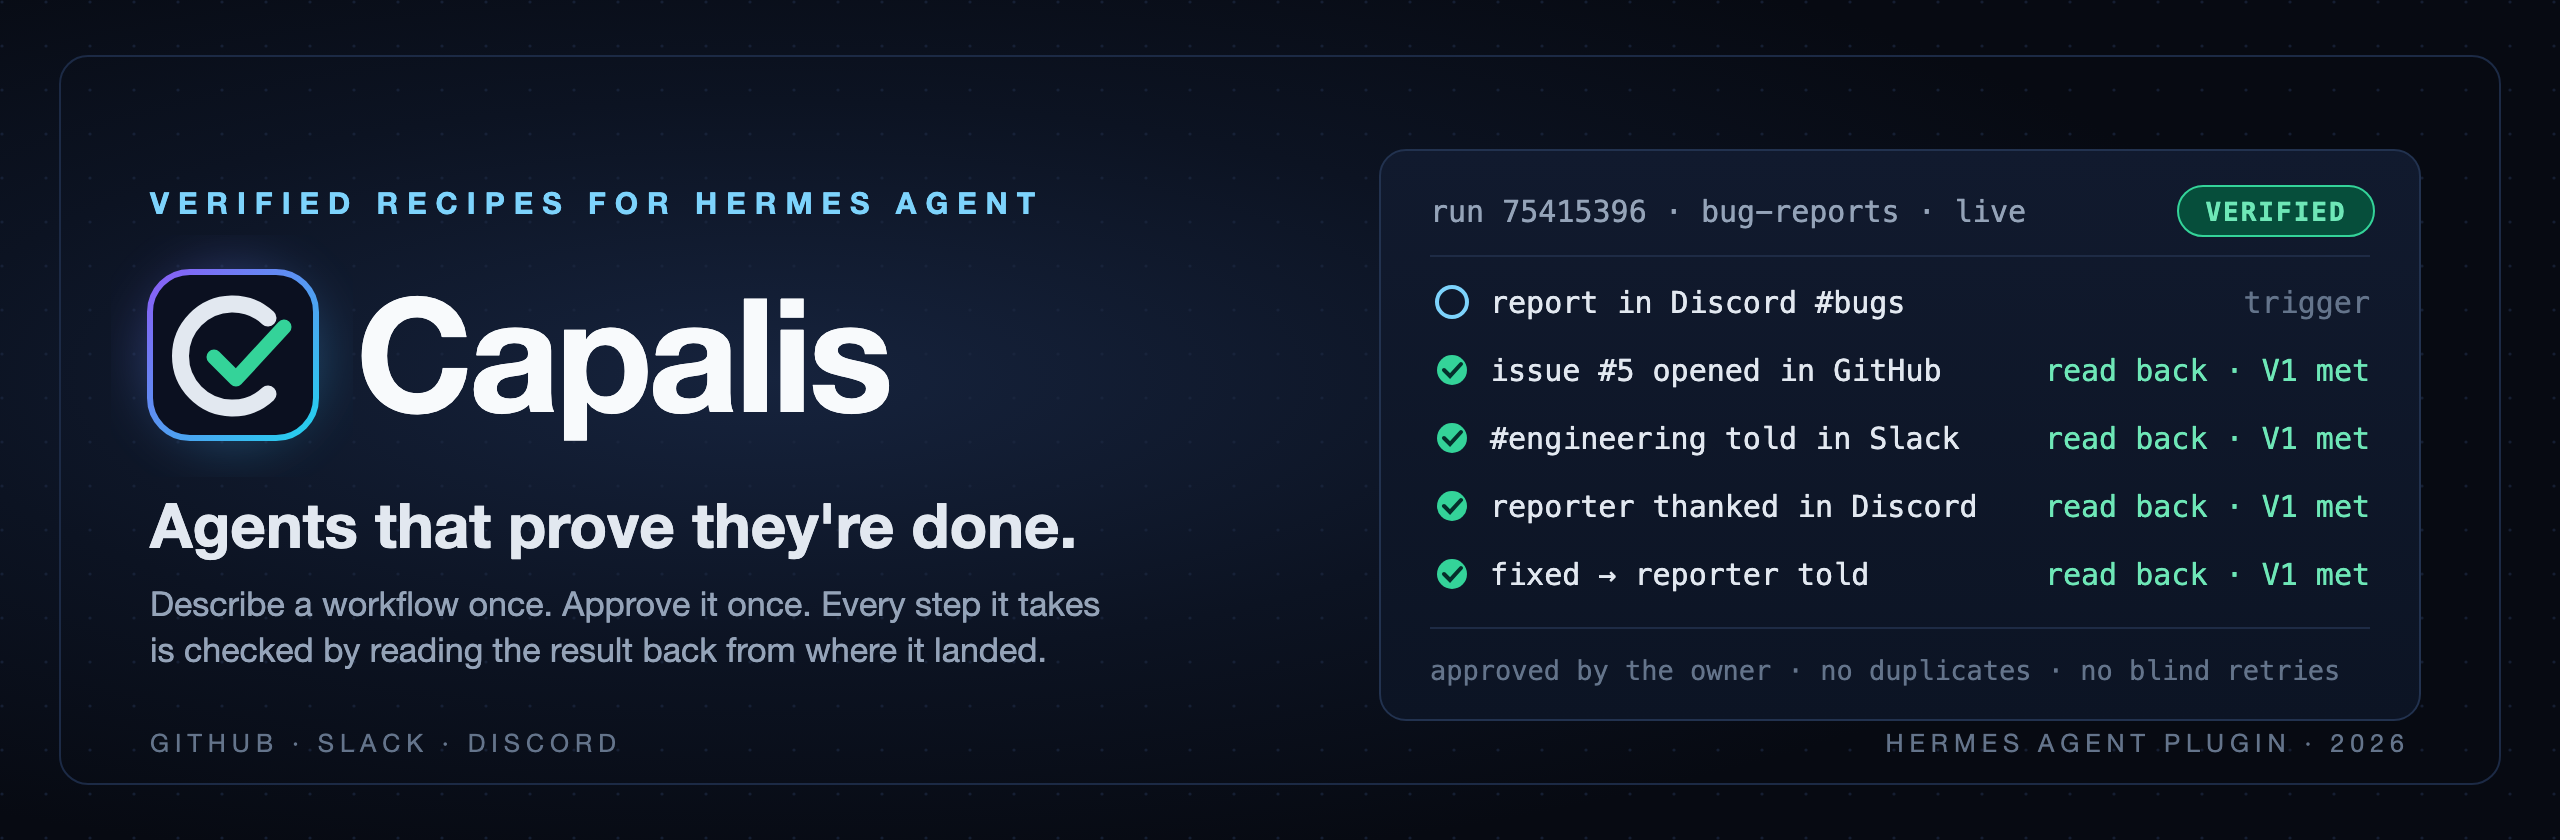
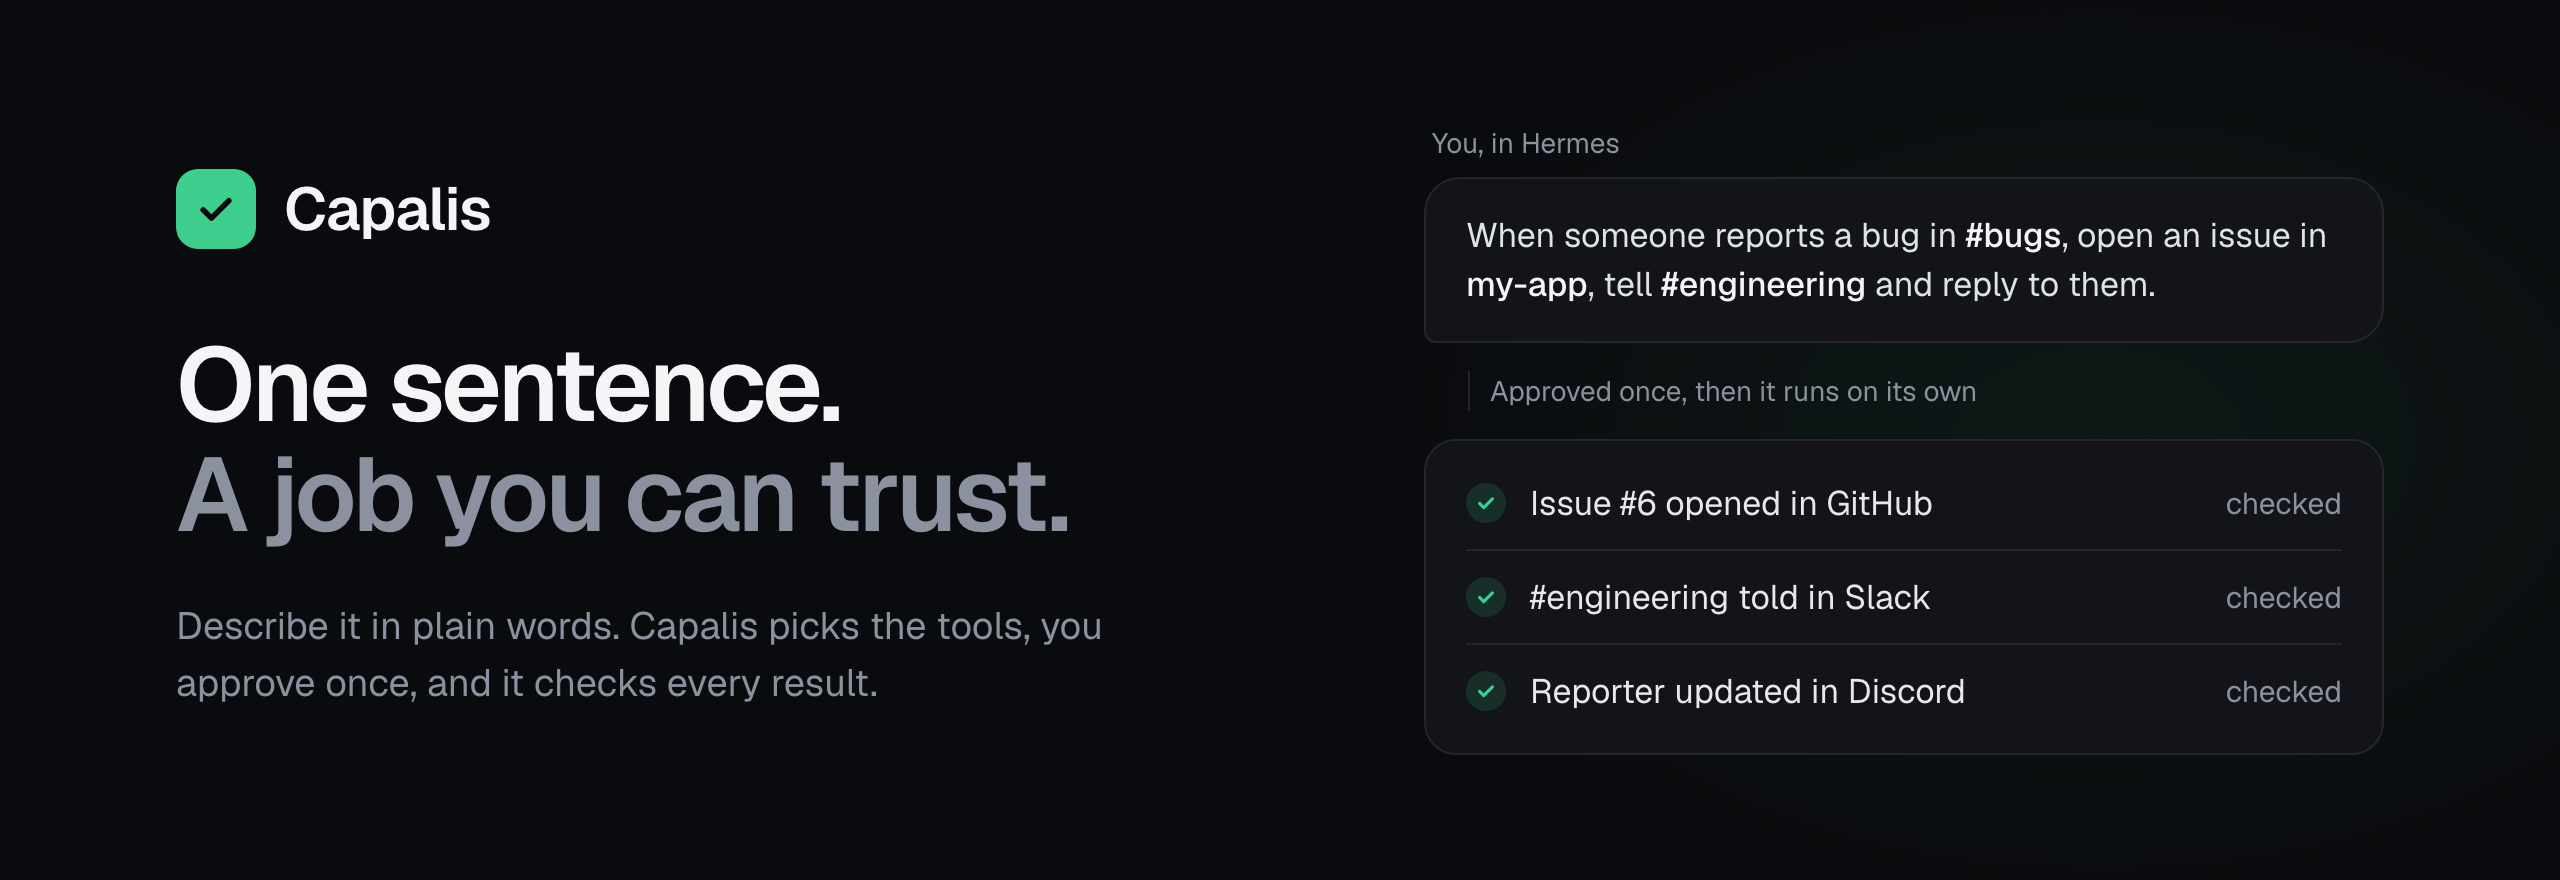
docs: refresh README copy, add “What makes it different” section, and replace cover assets

diff --git a/docs/assets/cover.html b/docs/assets/cover.html
@@ -1,0 +1,83 @@
+<!doctype html>
+<html>
+<head>
+<meta charset="utf-8">
+<link rel="preconnect" href="https://fonts.googleapis.com">
+<link href="https://fonts.googleapis.com/css2?family=Geist:wght@400;500;600;700&display=block" rel="stylesheet">
+<style>
+  :root {
+    --bg: #0a0b0e;
+    --surface: #121419;
+    --line: #23262e;
+    --text: #f4f5f7;
+    --muted: #8b919e;
+    --accent: #3ecf8e;
+  }
+  * { box-sizing: border-box; margin: 0; padding: 0; }
+  html, body { width: 1280px; height: 440px; }
+  body {
+    font-family: "Geist", -apple-system, sans-serif;
+    background:
+      radial-gradient(520px 340px at 82% 50%, rgba(62, 207, 142, 0.07), transparent 70%),
+      var(--bg);
+    color: var(--text);
+    display: flex;
+    align-items: center;
+    padding: 0 88px;
+    gap: 72px;
+    -webkit-font-smoothing: antialiased;
+  }
+  .left { flex: 1; }
+  .brand { display: flex; align-items: center; gap: 14px; margin-bottom: 40px; }
+  .mark {
+    width: 40px; height: 40px; border-radius: 11px; background: var(--accent);
+    display: grid; place-items: center;
+  }
+  .wordmark { font-size: 30px; font-weight: 600; letter-spacing: -0.02em; }
+  h1 { font-size: 52px; line-height: 1.06; font-weight: 600; letter-spacing: -0.035em; }
+  h1 span { color: var(--muted); }
+  p.sub { margin-top: 24px; font-size: 19px; line-height: 1.5; color: var(--muted); max-width: 500px; }
+
+  .right { width: 480px; display: flex; flex-direction: column; gap: 14px; }
+  .who { font-size: 14px; color: var(--muted); margin: 0 0 8px 4px; }
+  .bubble {
+    background: var(--surface); border: 1px solid var(--line); border-radius: 18px 18px 18px 6px;
+    padding: 16px 20px; font-size: 17px; line-height: 1.45; color: #dfe2e8;
+  }
+  .bubble b { color: var(--text); font-weight: 500; }
+  .link { display: flex; align-items: center; gap: 10px; padding-left: 22px; color: var(--muted); font-size: 14px; }
+  .link i { width: 1px; height: 20px; background: var(--line); }
+  .card { background: var(--surface); border: 1px solid var(--line); border-radius: 16px; padding: 8px 20px; }
+  .row { display: flex; align-items: center; gap: 12px; padding: 12px 0; font-size: 17px; }
+  .row + .row { border-top: 1px solid var(--line); }
+  .row .t { flex: 1; color: #e6e8ec; }
+  .row .k { color: var(--muted); font-size: 15px; }
+  .ok { width: 20px; height: 20px; border-radius: 50%; background: rgba(62, 207, 142, 0.14); display: grid; place-items: center; }
+</style>
+</head>
+<body>
+  <div class="left">
+    <div class="brand">
+      <div class="mark">
+        <svg width="22" height="22" viewBox="0 0 24 24" fill="none"><path d="M5 12.5l4.5 4.5L19 7.5" stroke="#0a0b0e" stroke-width="3" stroke-linecap="round" stroke-linejoin="round"/></svg>
+      </div>
+      <div class="wordmark">Capalis</div>
+    </div>
+    <h1>One sentence.<br><span>A job you can trust.</span></h1>
+    <p class="sub">Describe it in plain words. Capalis picks the tools, you approve once, and it checks every result.</p>
+  </div>
+
+  <div class="right">
+    <div>
+      <div class="who">You, in Hermes</div>
+      <div class="bubble">When someone reports a bug in <b>#bugs</b>, open an issue in <b>my-app</b>, tell <b>#engineering</b> and reply to them.</div>
+    </div>
+    <div class="link"><i></i>Approved once, then it runs on its own</div>
+    <div class="card">
+      <div class="row"><span class="ok"><svg width="11" height="11" viewBox="0 0 24 24" fill="none"><path d="M5 12.5l4.5 4.5L19 7.5" stroke="#3ecf8e" stroke-width="3.4" stroke-linecap="round" stroke-linejoin="round"/></svg></span><span class="t">Issue #6 opened in GitHub</span><span class="k">checked</span></div>
+      <div class="row"><span class="ok"><svg width="11" height="11" viewBox="0 0 24 24" fill="none"><path d="M5 12.5l4.5 4.5L19 7.5" stroke="#3ecf8e" stroke-width="3.4" stroke-linecap="round" stroke-linejoin="round"/></svg></span><span class="t">#engineering told in Slack</span><span class="k">checked</span></div>
+      <div class="row"><span class="ok"><svg width="11" height="11" viewBox="0 0 24 24" fill="none"><path d="M5 12.5l4.5 4.5L19 7.5" stroke="#3ecf8e" stroke-width="3.4" stroke-linecap="round" stroke-linejoin="round"/></svg></span><span class="t">Reporter updated in Discord</span><span class="k">checked</span></div>
+    </div>
+  </div>
+</body>
+</html>

diff --git a/README.md b/README.md
@@ -1,10 +1,10 @@
 <div align="center">
 
-<img src="docs/assets/cover.png" alt="Capalis: agents that prove they're done" width="100%" />
+<img src="docs/assets/cover.png" alt="Capalis: one sentence becomes a job you can trust. A request in Hermes becomes an issue in GitHub, a Slack message and a reply in Discord, each one checked." width="100%" />
 
-### Teach your AI agent a job once. It does it every time, and proves every step.
+### Describe a job once. Capalis sets it up, runs it, and checks it really happened.
 
-Capalis is a plugin for [Hermes Agent](https://github.com/NousResearch/hermes-agent). It turns one sentence into an approved workflow that runs on its own. It checks each thing it does by reading the result back, and it stops itself the moment anything changes.
+Capalis is a plugin for [Hermes Agent](https://github.com/NousResearch/hermes-agent). Say what you want in plain words. It picks the right tools, you approve once, and the job runs on its own. Every result is checked where it landed, and the job stops itself if anything it depends on changes.
 
 **[Quick start](#quick-start)** &nbsp;·&nbsp; **[See it work](#see-it-work)** &nbsp;·&nbsp; **[For judges](#for-judges)** &nbsp;·&nbsp; **[Owner's guide](docs/USER_GUIDE.md)**
 
@@ -20,6 +20,7 @@ Capalis is a plugin for [Hermes Agent](https://github.com/NousResearch/hermes-ag
 
 - [The problem, in 20 seconds](#the-problem-in-20-seconds)
 - [What changes with Capalis](#what-changes-with-capalis)
+- [What makes it different](#what-makes-it-different)
 - [See it work](#see-it-work)
 - [Quick start](#quick-start)
 - [Your phone is the control panel](#your-phone-is-the-control-panel)
@@ -38,22 +39,36 @@ Capalis is a plugin for [Hermes Agent](https://github.com/NousResearch/hermes-ag
 
 ## The problem, in 20 seconds
 
-You tell your AI agent: *"When a customer reports a bug, open a ticket and tell the team."* It answers **"Done ✅"**.
+You want one simple job done across your apps: *"When a customer reports a bug, open a ticket and tell the team."*
 
-But the ticket duplicates yesterday's. The message went to the wrong channel. The network hiccupped, so it posted twice. Next week the token expires, it quietly stops working, and it keeps saying "Done".
+**Setting it up is the first wall.** Which tool does what? What's the channel's id? Which permissions? Most people give up, or hand the job to an AI agent.
 
-Nothing checked, and nobody noticed. That's the gap between an agent that *calls tools* and one you can *trust with a job*.
+**Trusting it is the second.** The agent answers **"Done ✅"**. But the ticket duplicates yesterday's, the message went to the wrong channel, and a network hiccup posted it twice. Next week a token expires, the job quietly stops, and the agent keeps saying "Done".
+
+Capalis removes both walls. Setting a job up is a conversation, and "done" means it actually happened.
 
 ## What changes with Capalis
 
 | Without Capalis | With Capalis |
 | --- | --- |
-| "Done" means the tool said OK | **"Verified"** means GitHub, Slack or Discord confirmed it, read back by a separate check |
+| You need to know which tool, which ids and which permissions | **Say it in plain words.** Capalis finds #bugs and my-app by name and works out the steps |
+| You guess which tool to use | **It recommends one and says why**, or you compare the options first. For example, a Slack webhook can't be read back, so it suggests the Slack bot. When the evidence is too thin to pick, it says so instead of ranking. |
+| You re-explain the job every time | **Say it once, approve it once**, and it runs on its own |
+| "Done" means the tool said OK | **"Verified"** means GitHub, Slack or Discord confirmed it, read back by a separate check. If it can't check, it says so. |
 | A retry after a timeout does it twice | Every action is written down first and looked up before any retry. **Never twice.** |
 | A changed token or API breaks silently | It notices, **stops itself**, and tells you on your phone |
 | One sneaky message can redirect the agent | Where it acts is **fixed when you approve**; what people type can't change it |
-| You re-explain the job every time | **Say it once, approve it once**, and it runs on its own |
 | You can't tell what it actually did | One command shows **every step and the proof behind it** |
+
+## What makes it different
+
+Many agent tools now check a single action after the fact: did the payment land, did the message post. Capalis checks too, but checking is the smallest part. It owns the whole job:
+
+- **It builds the job.** One sentence becomes a Recipe: the steps, fixed destinations, limits, and a check for every write. You approve that exact version, and any change needs a new approval.
+- **It runs the job without you.** A message in Discord or Slack, or a schedule, starts it. It waits for later events, like an issue being closed, and follows up, even across restarts.
+- **It acts carefully.** Before every write it re-checks your approval, any pause, the limits and its dependencies, and writes its intent down first. An uncertain write is looked up, never repeated.
+- **It stays honest over time.** When a token, a permission or a tool changes, the Recipe stops itself and asks you to rebuild it and approve again.
+- **You run it from your phone.** Approvals, alerts and status all happen in Telegram.
 
 ## See it work
 

diff --git a/docs/DEMO.md b/docs/DEMO.md
@@ -9,7 +9,7 @@ Everything shown is real: a Hermes chat, the owner's Discord, a GitHub sandbox r
 
 | Time | Shot | What to say or type |
 | --- | --- | --- |
-| 0–8 s | Title | "Teach your AI agent a job once. It does it every time, and proves every step." |
+| 0–8 s | Title | "One sentence. A job you can trust." Then: "Describe a job once. Capalis sets it up, runs it, and checks it really happened." |
 | 8–25 s | Hermes chat | "Set up a Capalis Recipe called bug-reports-demo: when I post a bug in Discord #bugs, open an issue in capalis-sandbox, tell #engineering in Slack, and reply to me when it's closed. Use recommended." The model shows what each name resolved to, compiles, and shadow-runs: **writes simulated, nothing written**. |
 | 25–35 s | Phone (Telegram) | The "ready for your approval" message arrives on the phone. Reply `/capalis approve` and tap **1** (Approve). "Only I can approve, only the version I was shown, and I can do it from anywhere." |
 | 35–50 s | Discord → GitHub → Slack → Discord | Post "Checkout button does nothing on Safari" in `#bugs`. Cut to the new issue, then the Slack notice, then the reply under the Discord message: "tracked as #N". |

diff --git a/docs/releases/v0.2.0.md b/docs/releases/v0.2.0.md
@@ -1,6 +1,6 @@
 # Capalis v0.2.0
 
-**Teach your AI agent a job once. It does it every time, and proves every step.**
+**Describe a job once. Capalis sets it up, runs it, and checks it really happened.**
 
 Capalis is a plugin for [Hermes Agent](https://github.com/NousResearch/hermes-agent). You describe a job in one sentence, for example "when someone posts a bug in #bugs, open an issue in my-app, tell #engineering, and keep the reporter updated." Capalis turns it into a **Recipe** and practices it once without sending anything. It runs only after you approve that exact version. Every action is read back from where it landed before it counts as done. Nothing is done twice, and the moment something it depends on changes, it stops and tells you.
 
